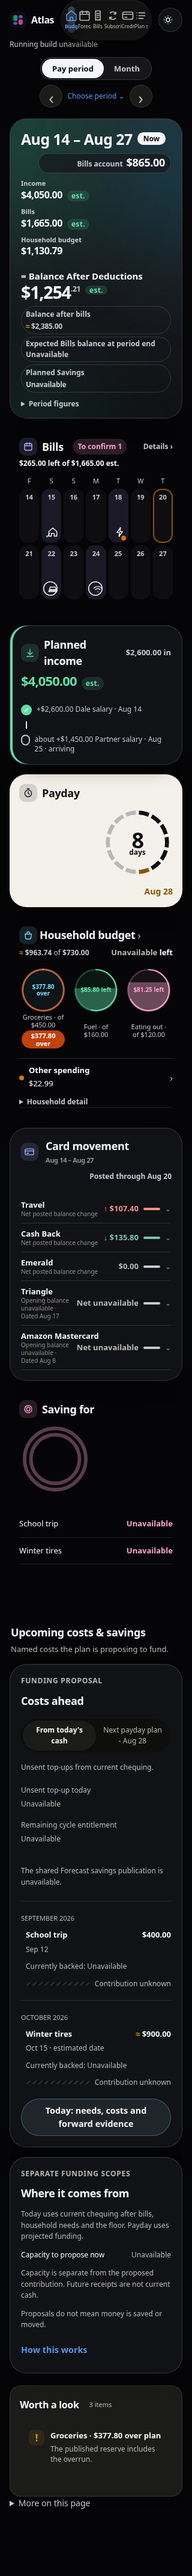
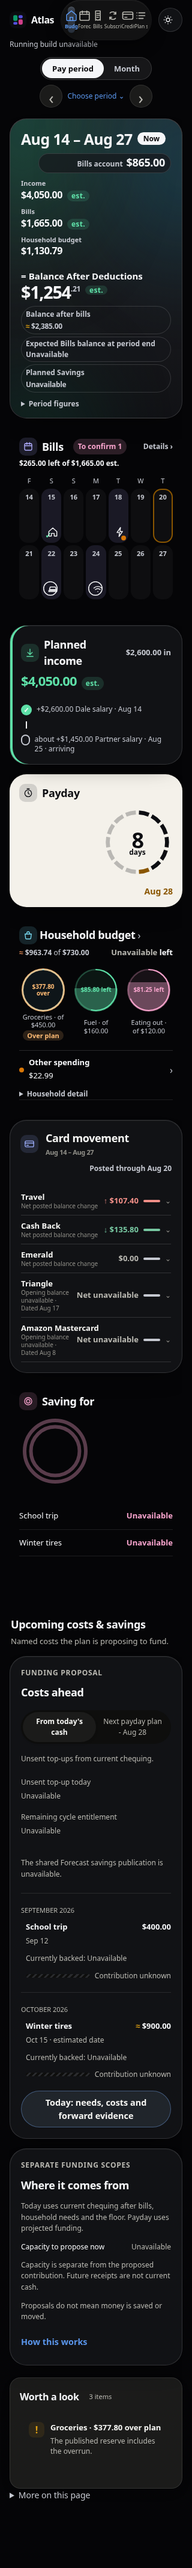
Show an over-plan amount once, in the ring centre.
The pill under the ring reads Over plan, in the over word and tint. The printed amount stays in that pill for screen readers.

diff --git a/test/browser-budget-blend-proof.js b/test/browser-budget-blend-proof.js
@@ -674,18 +674,26 @@ const composite = (fg, bg) => {
                 if (/\$/.test(sample) && style.textOverflow === 'ellipsis') bad.push({ kind: 'ellipsis', label, sample });
               });
             });
-            const pill = document.querySelector('.blend-over-pill');
+            const ring = document.querySelector('.blend-ring.is-over');
+            const pill = ring && ring.querySelector('.blend-over-pill');
+            const sr = pill && pill.querySelector('.budget-cash-sr');
+            const word = pill && [...pill.children].find(el => !el.classList.contains('budget-cash-sr'));
             const state = document.querySelector('.blend-other-state');
             const plan = document.querySelector('.blend-other .blend-of-plan');
             const hits = (a, b) => !!(a && b && a.left < b.right - 1 && a.right > b.left + 1 && a.top < b.bottom - 1 && a.bottom > b.top + 1);
             return {
               bad: bad.slice(0, 6),
-              pill: (pill?.textContent || '').replace(/\s+/g, ' ').trim(),
+              centre: (ring?.querySelector('.blend-ring-v')?.textContent || '').replace(/\s+/g, ' ').trim(),
+              word: (word?.textContent || '').replace(/\s+/g, ' ').trim(),
+              sr: (sr?.textContent || '').replace(/\s+/g, ' ').trim(),
+              srReachable: !!(sr && getComputedStyle(sr).display !== 'none' && !sr.closest('[aria-hidden="true"]')),
               pillEllipsis: pill ? getComputedStyle(pill).textOverflow : '',
               otherOverlap: hits(state && state.getBoundingClientRect(), plan && plan.getBoundingClientRect()),
             };
           });
-          if (narrow.bad.length || narrow.pill !== '$295.14 over' || narrow.pillEllipsis === 'ellipsis' || narrow.otherOverlap) {
+          if (narrow.bad.length || narrow.centre !== '$295.14 over' || narrow.word !== 'Over plan'
+            || narrow.sr !== '$295.14 over' || !narrow.srReachable
+            || narrow.pillEllipsis === 'ellipsis' || narrow.otherOverlap) {
             errors.push(`${width}/${theme} narrow overflow ${JSON.stringify(narrow)}`);
           }
         }
@@ -750,11 +758,16 @@ const composite = (fg, bg) => {
       const overs = rows.map((row, index) => {
         const ring = rings[index];
         const pill = ring && ring.querySelector('.blend-over-pill');
+        const sr = pill && pill.querySelector('.budget-cash-sr');
+        const word = pill && [...pill.children].find(el => !el.classList.contains('budget-cash-sr'));
         return {
           status: (row.querySelector('.budget-category-status')?.textContent || '').trim(),
           over: row.classList.contains('is-over'),
-          pill: pill ? (pill.textContent || '').trim() : '',
-          onFace: !!(pill && visible(pill) && !pill.closest('.blend-house-panel')),
+          centre: (ring?.querySelector('.blend-ring-v')?.textContent || '').trim(),
+          word: word ? (word.textContent || '').trim() : '',
+          sr: sr ? (sr.textContent || '').trim() : '',
+          srReachable: !!(sr && getComputedStyle(sr).display !== 'none' && !sr.closest('[aria-hidden="true"]')),
+          onFace: !!(word && visible(word) && !pill.closest('.blend-house-panel')),
         };
       }).filter(row => row.over);
       return {
@@ -773,7 +786,7 @@ const composite = (fg, bg) => {
     });
     const overOk = prepared.marked.length >= 1
       && household.overs.length === prepared.marked.length
-      && prepared.marked.every(status => household.overs.some(row => row.status === status && row.pill === status && row.onFace));
+      && prepared.marked.every(status => household.overs.some(row => row.status === status && row.centre === status && row.word === 'Over plan' && row.sr === status && row.srReachable && row.onFace));
     if (!overOk || household.countText !== prepared.printed
       || !/known categories over plan/.test(household.countText)
       || household.countOnFace || household.countInHeader || !household.countInPanel
@@ -915,17 +928,22 @@ const composite = (fg, bg) => {
     const marked = await next.evaluate(() => {
       const ring = document.querySelector('.blend-ring.is-over');
       const pill = ring && ring.querySelector('.blend-over-pill');
+      const sr = pill && pill.querySelector('.budget-cash-sr');
+      const word = pill && [...pill.children].find(el => !el.classList.contains('budget-cash-sr'));
       const sheet = document.querySelector('[data-budget-detail-sheet]');
       return {
-        word: pill ? pill.textContent : '',
-        visible: !!(pill && pill.getBoundingClientRect().width > 8 && pill.getBoundingClientRect().height > 8),
+        centre: ring ? (ring.querySelector('.blend-ring-v')?.textContent || '') : '',
+        word: word ? word.textContent : '',
+        sr: sr ? sr.textContent : '',
+        srReachable: !!(sr && getComputedStyle(sr).display !== 'none' && !sr.closest('[aria-hidden="true"]')),
+        visible: !!(word && word.getBoundingClientRect().width > 8 && word.getBoundingClientRect().height > 8),
         popup: ring && ring.getAttribute('aria-haspopup'),
         controls: ring && ring.getAttribute('aria-controls'),
         sheetLabel: sheet && sheet.getAttribute('aria-labelledby'),
         expanded: ring && ring.getAttribute('aria-expanded'),
       };
     });
-    if (marked.word !== '$80.00 over' || !marked.visible || marked.popup !== 'dialog'
+    if (marked.centre !== '$80.00 over' || marked.word !== 'Over plan' || marked.sr !== '$80.00 over' || !marked.srReachable || !marked.visible || marked.popup !== 'dialog'
       || marked.controls !== 'budget-detail-sheet' || marked.sheetLabel !== 'budget-detail-title') {
       errors.push(`over ring ${JSON.stringify(marked)}`);
     }

diff --git a/public/budget-blend.css b/public/budget-blend.css
@@ -15,6 +15,7 @@
   --blend-house: #0a8fb5;
   --blend-goals: #d23f8a;
   --blend-overdue: #9f1239;
+  --blend-over: #c2410c;
   --blend-cards: #4f6bed;
   --blend-focus: #5650e0;
   --blend-pay-bg: #0d0e12;
@@ -37,6 +38,7 @@
     --blend-house: #7adcf3;
     --blend-goals: #f7a3cc;
     --blend-overdue: #fda4af;
+    --blend-over: #fdba74;
     --blend-cards: #9eb0ff;
     --blend-focus: #b1aeff;
     --blend-pay-bg: #f4f1ea;
@@ -58,6 +60,7 @@
   --blend-house: #7adcf3;
   --blend-goals: #f7a3cc;
   --blend-overdue: #fda4af;
+  --blend-over: #fdba74;
   --blend-cards: #9eb0ff;
   --blend-focus: #b1aeff;
   --blend-pay-bg: #f4f1ea;
@@ -1586,15 +1589,17 @@ body:has([data-budget-bento]) .sitenav {
   font-weight: 650;
   white-space: nowrap;
 }
-.blend-ring.is-over .blend-ring-g { box-shadow: inset 0 0 0 3px #c2410c; }
+.blend-ring.is-over .blend-ring-g { box-shadow: inset 0 0 0 3px var(--blend-over); }
+.blend-ring.is-over .blend-ring-v { color: var(--blend-over); }
 .blend-over-pill {
+  position: relative;
   display: inline-block;
   max-width: 100%;
   padding: 2px 7px;
   overflow: visible;
   border-radius: 999px;
-  background: #c2410c;
-  color: #fff;
+  background: color-mix(in srgb, var(--blend-over) 16%, transparent);
+  color: var(--blend-over);
   font-size: 11px;
   font-weight: 700;
   line-height: 1.2;

diff --git a/public/budget-blend.js b/public/budget-blend.js
@@ -980,7 +980,12 @@
         button.classList.add('is-over');
         const pill = document.createElement('span');
         pill.className = 'blend-over-pill';
-        pill.textContent = status;
+        const amount = document.createElement('span');
+        amount.className = 'budget-cash-sr';
+        amount.textContent = status;
+        const word = document.createElement('span');
+        word.textContent = 'Over plan';
+        pill.append(amount, word);
         button.appendChild(pill);
       }
       markSheet(button, row);

diff --git a/docs/proof/BUDGET_REDESIGN_VISUAL.md b/docs/proof/BUDGET_REDESIGN_VISUAL.md
@@ -20,7 +20,7 @@ Card movement keeps the published heading, aria-label, hooks, and fail-closed wo
 
 #547’s Saving for rows stay under `[data-budget-savings-goals]`, including Saved, Needed, and This period. The legend shows the status word and, when the row prints a dollar amount, Saved and then Needed, with the printed estimate mark in the estimate colour. The source rows stay in the DOM for the existing hooks and are not closed details. The funding section keeps its Today and Payday tabs and the “Currently backed” lines. Those hooks are not clipped.
 
-The household header is an icon beside “Household budget ›”, the spent-to-date figure, and “$X left” at the right. The “N of M known categories over plan” count sits in Household detail, opened from the keyboard, and is not on the face. Each over-plan ring keeps its printed “$X over” pill on the face. Ring captions wrap, including “Category · of $plan”, with no ellipsis. Ring centre text wraps inside the ring, on two lines when the printed status needs it, and is not ellipsized at 1440, 390, or 320. Still planned, From today, and the cycle dates sit in Household detail. Income keeps its actual/planned line in the DOM, on the face only when no received amount is printed. The Bills face keeps the to-pay headline (“$X left of $Y”) and a To confirm pill when that count is above zero. A completed past period shows no remaining-amount line at all; that element is absent, and it is not replaced by Unavailable. On that header, Details stays at the right edge. A pill whose count is zero is not shown. The budget bills section does not print an Overdue count, so no Overdue pill is drawn and none is counted from dates. If a printed state says Overdue, that day gets a red ring and the word is available for the pill. When the bills publication is Unavailable, the headline reads Unavailable and the day markers stay neutral. Details is a quiet text button with a chevron at the right end of the header. Paid, not paid, and to-confirm lists stay in the Bills detail panel, in the DOM, and open when Details is used or when a filter inside the panel is focused. Balance after bills is the first hero pill. The latest recorded Bills balance, a cash shortfall or funding-gap notice, and the period-info disclosure sit in Period figures. Per-category rows stay collapsed. A ring opens that category’s sheet from the keyboard, focus returns to that ring when the sheet closes, and an over-plan category shows the existing over-plan word on its ring. Unknown household categories use the hatched unavailable marker and do not draw a liquid level. When Other spending already prints “of planned …”, including “≈estimated”, that phrase is copied onto the visible footer row.
+The household header is an icon beside “Household budget ›”, the spent-to-date figure, and “$X left” at the right. The “N of M known categories over plan” count sits in Household detail, opened from the keyboard, and is not on the face. Each over-plan ring shows the printed “$X over” in the centre, in the over tone. The pill under it reads Over plan, in the over word and tint, and that printed amount stays inside the pill for screen readers. Ring captions wrap, including “Category · of $plan”, with no ellipsis. Ring centre text wraps inside the ring, on two lines when the printed status needs it, and is not ellipsized at 1440, 390, or 320. Still planned, From today, and the cycle dates sit in Household detail. Income keeps its actual/planned line in the DOM, on the face only when no received amount is printed. The Bills face keeps the to-pay headline (“$X left of $Y”) and a To confirm pill when that count is above zero. A completed past period shows no remaining-amount line at all; that element is absent, and it is not replaced by Unavailable. On that header, Details stays at the right edge. A pill whose count is zero is not shown. The budget bills section does not print an Overdue count, so no Overdue pill is drawn and none is counted from dates. If a printed state says Overdue, that day gets a red ring and the word is available for the pill. When the bills publication is Unavailable, the headline reads Unavailable and the day markers stay neutral. Details is a quiet text button with a chevron at the right end of the header. Paid, not paid, and to-confirm lists stay in the Bills detail panel, in the DOM, and open when Details is used or when a filter inside the panel is focused. Balance after bills is the first hero pill. The latest recorded Bills balance, a cash shortfall or funding-gap notice, and the period-info disclosure sit in Period figures. Per-category rows stay collapsed. A ring opens that category’s sheet from the keyboard, focus returns to that ring when the sheet closes, and an over-plan category shows the existing over-plan word on its ring. Unknown household categories use the hatched unavailable marker and do not draw a liquid level. When Other spending already prints “of planned …”, including “≈estimated”, that phrase is copied onto the visible footer row.
 
 ## How it was run
 
